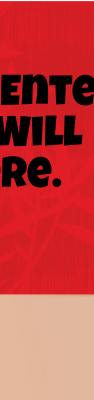
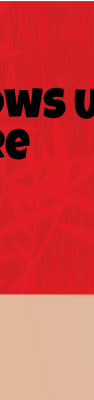
got rid of sliders. Using draggable to drag canvas text into place.

Changed region(s): [[0.0, 0.18, 1.0, 0.48], [0.5532, 0.42, 0.6596, 0.48]]

diff --git a/public/scripts/puzzleMaker.js b/public/scripts/puzzleMaker.js
@@ -1,7 +1,7 @@
-var puzzleBody = "Your text Will show up here.";
 var vOffset = 30;
 var hOffset = 30;
 var fontColor = '#000000';
+var puzzleBody = "It\nShows Up\nHere"
 var drawCanvas = function(){
     // set context and formatting
 	var fv = $('#canvas').css('font-family');
@@ -34,14 +34,13 @@ var drawCanvas = function(){
 
 // Creates an array where the <br/> tag splits the values.
 var toMultiLine = function(text){
-   var textArr = new Array();
+   var textArr = [];
    text = text.replace(/\n\r?/g, '<br/>');
    textArr = text.split("<br/>");
    return textArr;
 };
 
 $(document).ready(function() {
-
 	// Clear this textarea, but only the first time it is clicked.
 	var cleared;
 	$('#puzzleBody').click(function(){
@@ -51,15 +50,13 @@ $(document).ready(function() {
 		}
 	});
 
-	// Set up Sliders.
-	$("#slider").slider({min: 0, max: 100, value: 30}).bind( "slide", function(event, ui) {
-		hOffset = parseInt(parseInt(ui.value)*9.4);
-		drawCanvas();
-	});
-	$("#vSlider").slider({min: 0, max: 100, orientation: 'vertical', value: 30}).bind( "slide", function(event, ui) {
-		vOffset = 400 - parseInt(ui.value)*4;
-		drawCanvas();
-	});
+	// Set up draggable positioner
+		$('#hmSlider').draggable({ appendTo: $('#canvas'), drag: function(element, ui) {
+			hOffset = ui.position.left + 30;
+			vOffset = ui.position.top + 30;
+			drawCanvas()
+		}});
+		
 	var canvas = document.getElementById("canvas");
 	$('#customSize').click( function() {
 		$('#sizeInput').focus().val("");
@@ -133,4 +130,5 @@ $(document).ready(function() {
 		drawCanvas();
 	});
 	$('#img_elem').hide();
+drawCanvas();
 });
